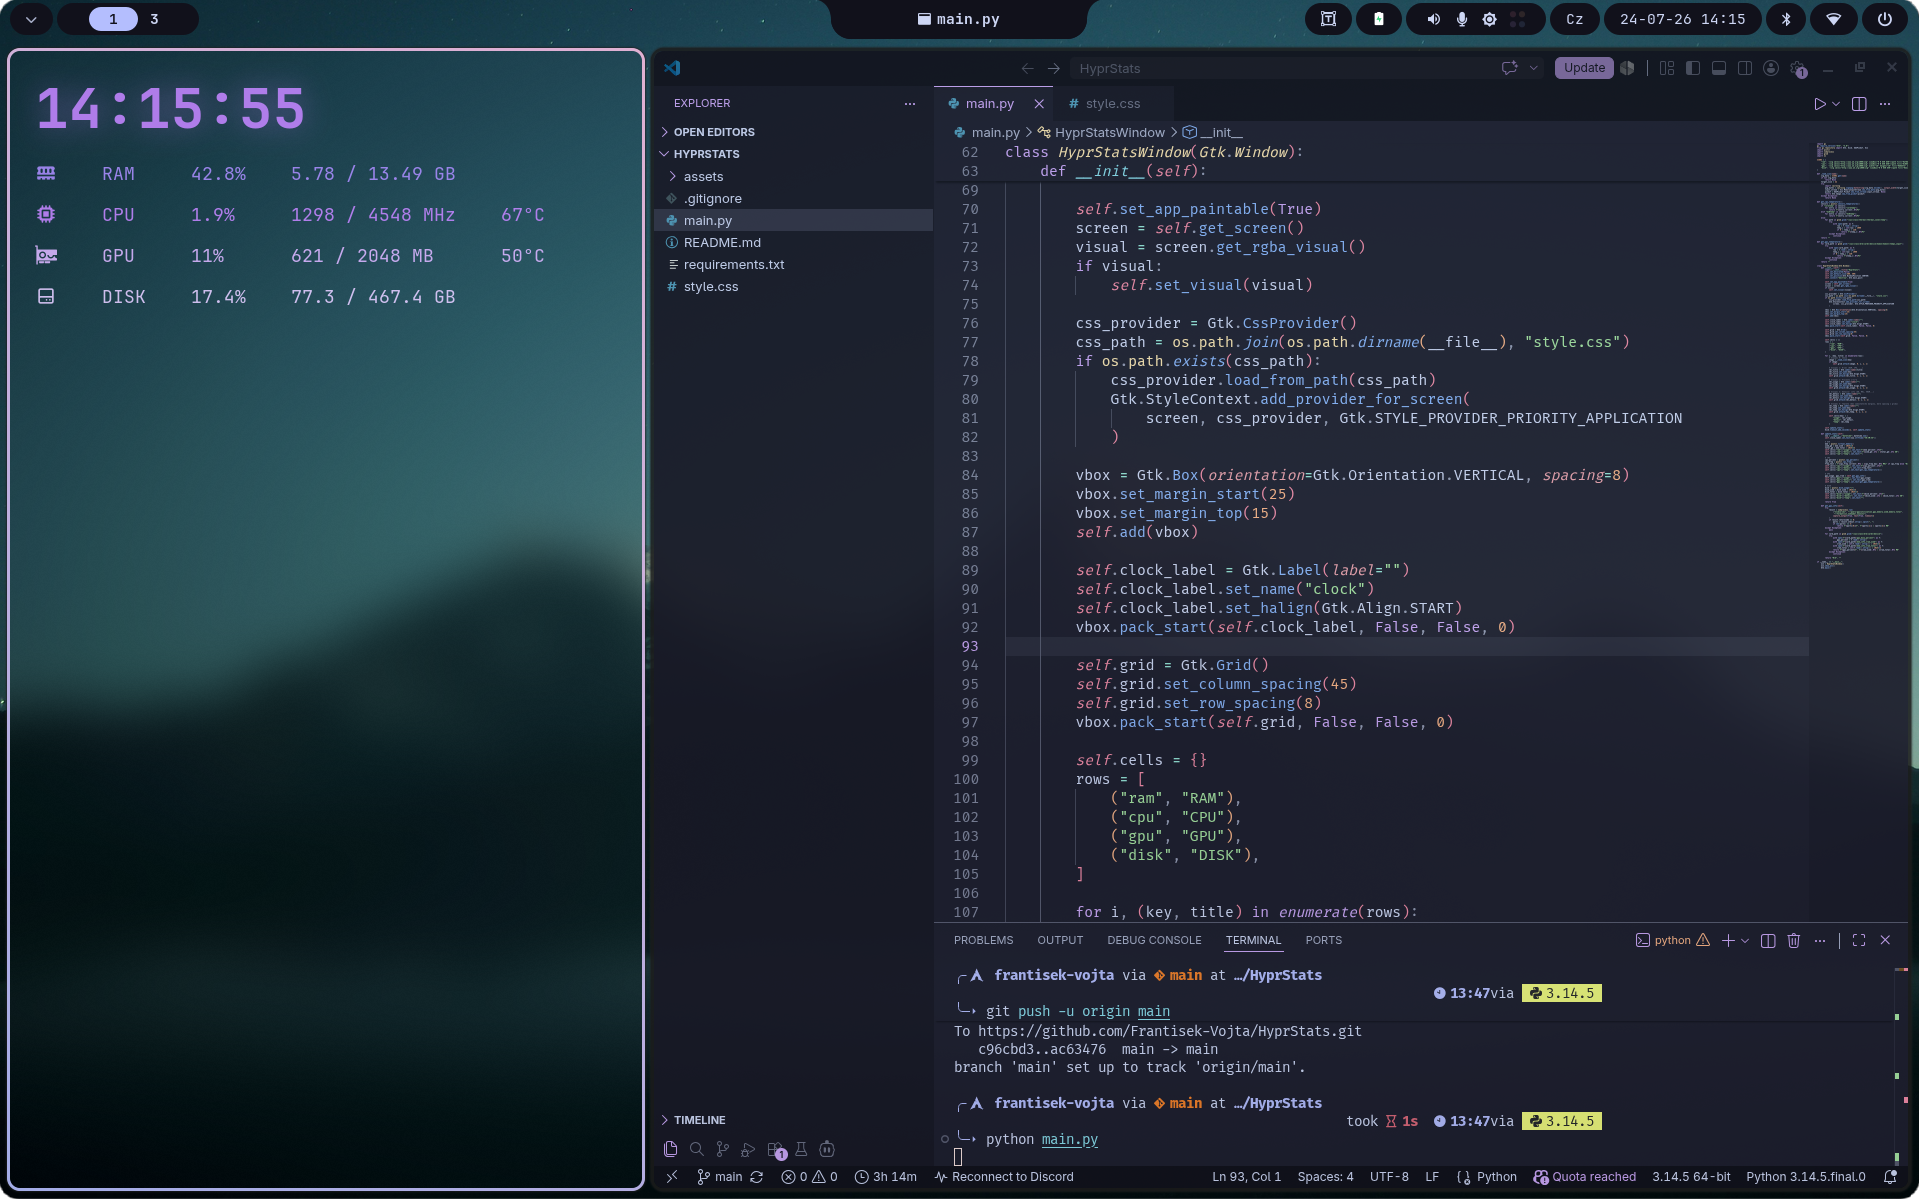
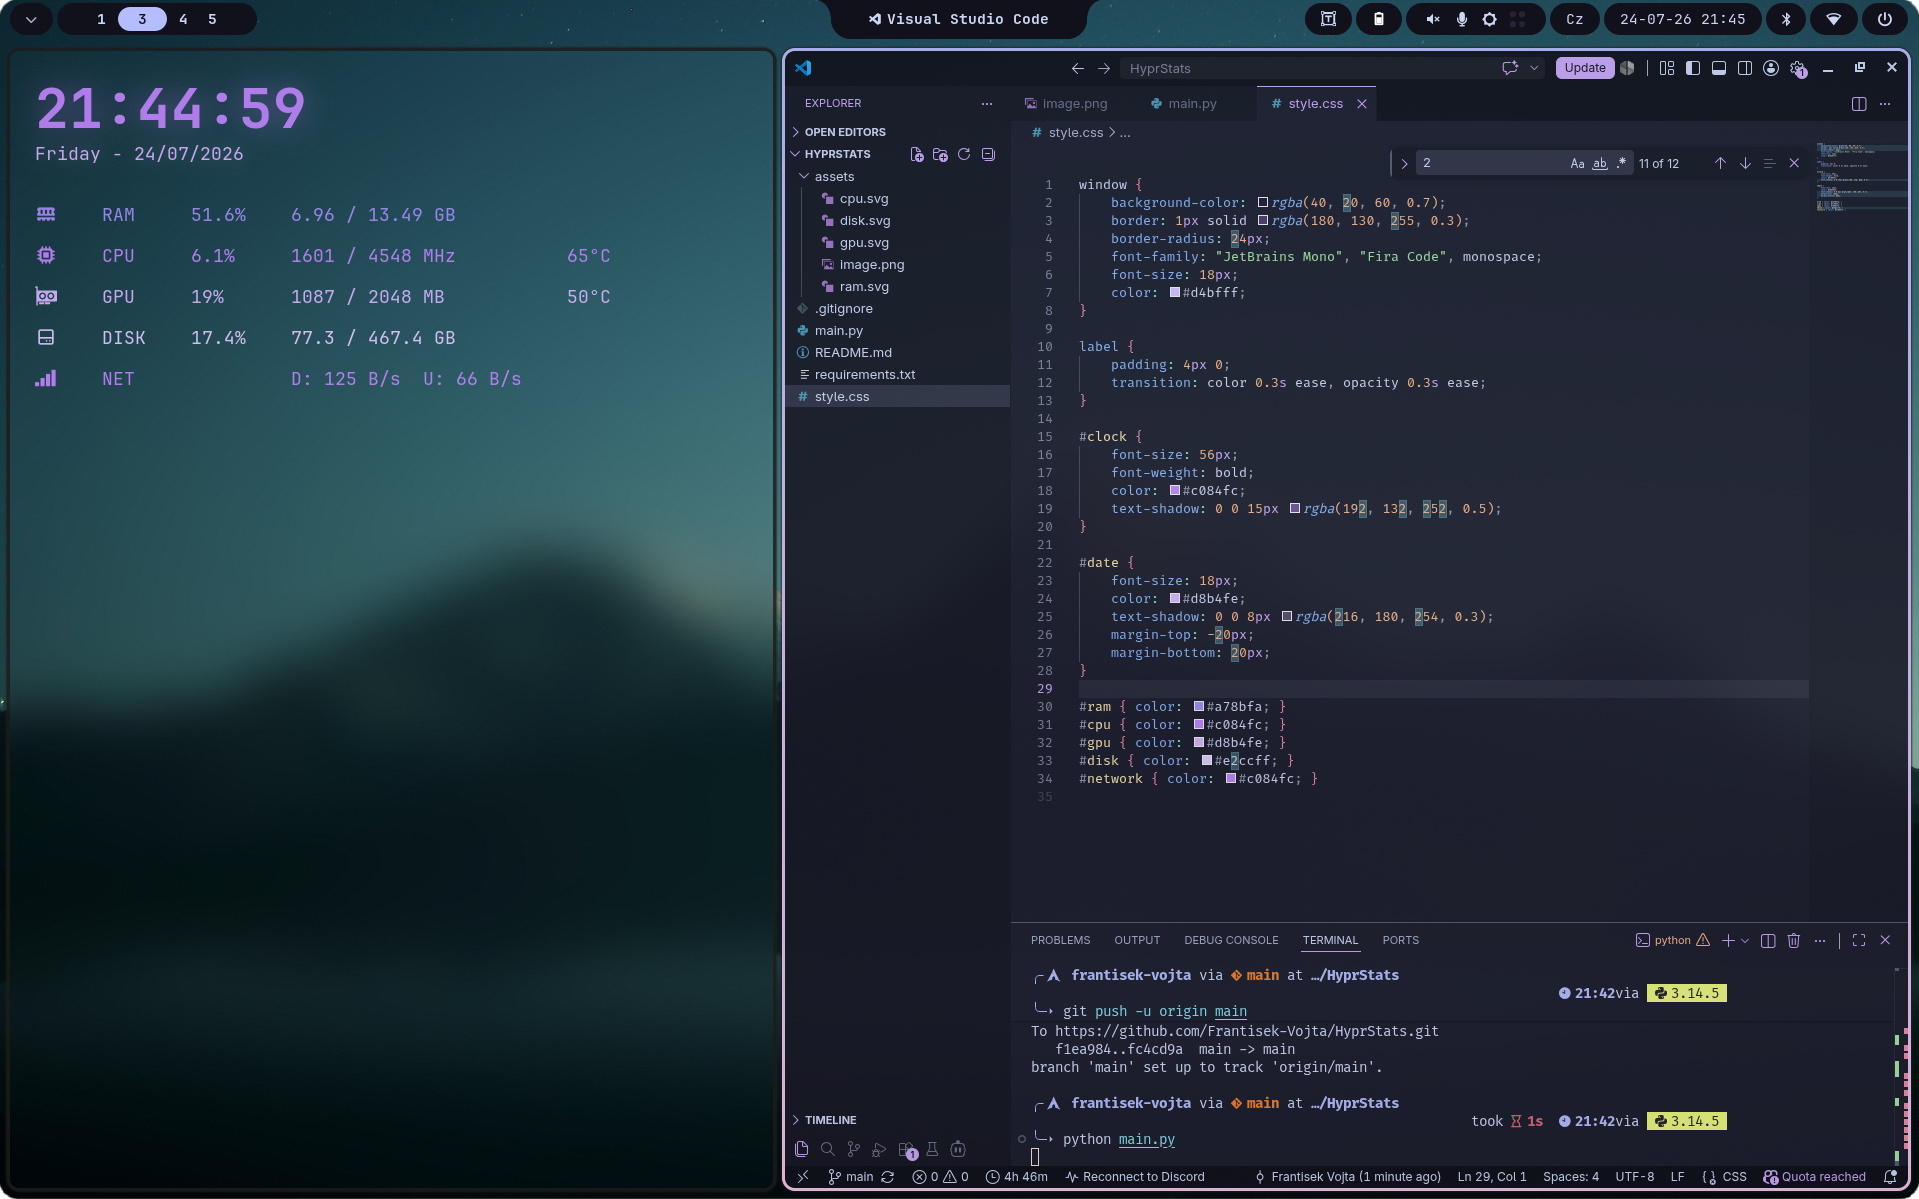
update readme

diff --git a/README.md b/README.md
@@ -14,8 +14,6 @@ Custom Linux desktop system monitor widget for Hyprland on Arch Linux.
 
 ![HyprStats demo](assets/demo.gif)
 
-*more screenshots coming soon.*
-
 </div>
 
 ---
@@ -91,6 +89,13 @@ Run the widget manually:
 ```bash
 python main.py
 ```
+---
+
+## Screenshots
+#### old version:
+![HyprStats screenshot](assets/image.png)
+
+*more screenshots coming soon.*
 
 ## Contributing
 
